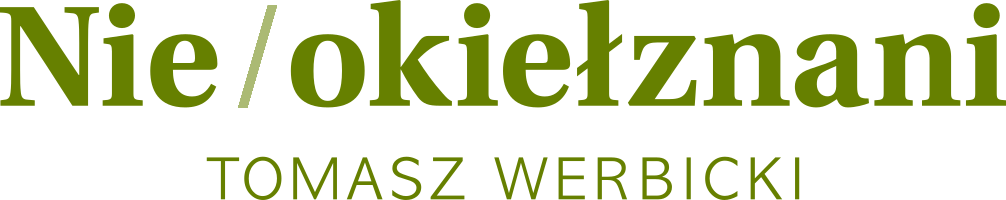
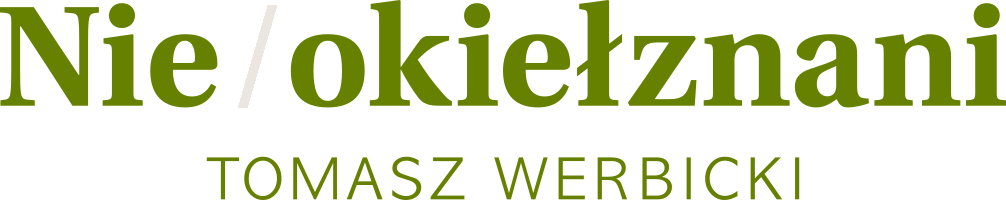
Finish Polish version

Changed region(s): [[0.2157, 0.03, 0.2773, 0.54]]

diff --git a/index.html b/index.html
@@ -24,8 +24,14 @@
                 </button>
                 <ul class="nav-menu">
                     <li><a href="#top">Start</a></li>
-                    <li><a href="#story">The Story</a></li>
-                    <li><a href="#contact">Connect</a></li>
+                    <li><a href="#contact">Porozmawiajmy</a></li>
+                    <li><span>/</span></li>
+                    <li><a href="https://www.youtube.com/@nieokielznani">
+                        <svg fill="currentColor" width="16" height="16" viewBox="0 0 24 24" xmlns="http://www.w3.org/2000/svg">
+                          <path d="M23,9.71a8.5,8.5,0,0,0-.91-4.13,2.92,2.92,0,0,0-1.72-1A78.36,78.36,0,0,0,12,4.27a78.45,78.45,0,0,0-8.34.3,2.87,2.87,0,0,0-1.46.74c-.9.83-1,2.25-1.1,3.45a48.29,48.29,0,0,0,0,6.48,9.55,9.55,0,0,0,.3,2,3.14,3.14,0,0,0,.71,1.36,2.86,2.86,0,0,0,1.49.78,45.18,45.18,0,0,0,6.5.33c3.5.05,6.57,0,10.2-.28a2.88,2.88,0,0,0,1.53-.78,2.49,2.49,0,0,0,.61-1,10.58,10.58,0,0,0,.52-3.4C23,13.69,23,10.31,23,9.71ZM9.74,14.85V8.66l5.92,3.11C14,12.69,11.81,13.73,9.74,14.85Z"/>
+                        </svg>
+                        Youtube
+                    </a></li>
                 </ul>
             </div>
         </div>
@@ -43,86 +49,88 @@
         <div class="container-narrow">
             
             <div class="story-block">
-                <p>Hello, I'm Tomasz. When I got Frotka, my first dog, I was super excited about raising her to be a great companion. I was ready for the work, for constantly wondering what I could do better for her. When I take on a challenge like that, new area to discover, I get obsessive.</p>
-                <p>And I went deep down the rabbit hole. All the videos, paid online courses, whole spectrum of techniques and approaches.</p>
-                <p>But then I was home with her, dealing with a real, living creature I took under my care, and it got me nowhere.</p>
+                <p>Hejo, na imię mam Tomasz. Kiedy z partnerką przygarnęliśmy Frotkę, mojego pierwszego psa, byłem super podekscytowany wychowaniem jej na wspaniałą towarzyszkę życia. Byłem totalnie gotowy na ogrom pracy i ciągłe zastanawianie się co jeszcze mogę zrobić lepiej. Kiedy podejmę się takiego zadania, kiedy mam nowy temat do zgłębienia, dostaję obsesji.</p>
+                <p>I wciągnąłem się po uszy. Setki godzin video, płatne kursy online, dziesiątki godzin podcastów i pełne spektrum podejść czy technik.</p>
+                <p>Jednak kiedy byłem z nią w domu, mając do czynienia z żywą istotą, którą wziąłem pod swoją opiekę, niewiele to wszystko dało.</p>
             </div>
 
             <div class="story-block">
-                <p>I had this picture of what we could be together. A real partnership, a dog I could do everything with. Meanwhile, all I could feel was the critical stages of her development passing by while I fumbled with techniques that felt increasingly hollow.</p>
-                <p>It wasn't that she was badly behaved. She wasn't lunging at people or destroying things. We just couldn't work together. She didn't want to play, she didn't want treats that much, at home she was restless and outside she was a deranged sniff-junkie with absolute zero contact. I couldn't reach her.</p>
-                <p>I couldn't find good guidance anywhere and I literally cried in desperation.</p>
+                <p>Miałem tę wizję psa, z którym mam szczerą, głęboką relację i mogę z nim podbijać świat. Wiedziałem, że nie przyjdzie to samo, że będzie to wymagać wzajemnej nauki. Jednak w rzeczywistości obserwowałem jak przemijają krytyczne okresy jej rozwoju w coraz mocniejszym uczuciu bezradności.</p>
+                <p>Nigdy nie zachowywała się źle i nie mieliśmy znaczących problemów. Nie niszczyła, nie zżerała losowych rzeczy, nie baliśmy się o jej bezpieczeństwo. Po prostu nie byliśmy w stanie razem pracować. Nie była zainteresowana jakąkolwiek interakcją z nami, nie biegała za smaczkami, nie chwytała szarpaka, na dworze nie odciągała nosa od ziemi, aż do przestymulowania, a w domu nie mogła się uspokoić czy porządnie wyspać.</p>
+                <p>Nie mogliśmy złapać żadnego kontaktu. Jako 2 miesięczny szczeniak była za wszystkim sama, a ja płakałem z desperacji.</p>
             </div>
 
             <div class="story-divider">• • •</div>
 
             <div class="story-block">
-                <p>Puppy classes program didn't include much more than luring into a sit and when someone asked about biting clothes, all we got was a 10 minute non-answer.</p>
-                <p>Then I paid for a behavioral consultation… and was simply appalled.</p>
-                <p>We also went to a dog sport introductory camp looking for a pleasant vacation around dog people. But what I saw was again, appaling.</p>
+              <p>Program psiego przedszkola nie zawierał więcej niż "siad na smaczek", a gdy ktoś zapytał o problem z gryzieniem otrzymaliśmy 10 minutowy monolog bez żadnej odpowiedzi.</p>
+              <p>Zapłaciliśmy za konsultację behawiorystki, która wykazała zero empatii wobec Frotki, a gdy pojawiliśmy się na prowadzonym przez nią spacerze socjalizacyjnym, jej pies sprawiał najwięcej problemów.</p>
+              <p>Wybraliśmy się także na obóz wprowadzający do sportów, licząc na luźne wakacje w towarzystwie psiarzy. Czego byliśmy świadkami zostawiło ogromny niesmak.</p>
                 <ul>
-                  <li>Dogs not allowed to see each other and forced to wait in cars or empty rooms.</li>
-                  <li>Everyone dealing with behavioral problems instead of having fun with a frisbee.</li>
-                  <li>Dogs visibly trying to run for their lives while being pulled on a leash over a bar.</li>
-                  <li>And owners literally crying under the trainer's guideance.</li>
+                  <li>Pociechy pozamykane w pustych pokojach, gdyż nie mogły się swobodnie minąć na placu.</li>
+                  <li>Zdecydowanie więcej czasu poświęcanego na problemy behawioralne niż zabawę frisbee.</li>
+                  <li>Psy z podkulonym ogonem i strachem w oczach siłą przeciągane nad tyczką.</li>
+                  <li>I właściciele dosłownie w szczerym płaczu pod przewodnictwem trenera.</li>
                 </ul>
-                <p>And then there's Facebook – #evilflexi! #podbiegacz! #agresor! – what the actual fuck?</p>
-                <p>Wherever I looked, no real answers. Just this growing sense that something is deeply off with the dog world I was witnessing. </p>
+                <p>No i ten Facebook — Wyrzucać Flexi! Podbiegacz, agresor! On zabije Ci psa! — <strong>Co do *****?!</strong></p>
+                <p>Gdzie nie szukałem, brak prawdziwych odpowiedzi. Tylko narastające uczucie, że coś jest solidnie nie halo z tym psim światem jaki zastałem.</p>
             </div>
 
             <div class="story-block">
-                <p class="story-highlight">No common sense, no human decency, not even empathy for what matters the most - <strong>the dogs</strong>.</p>
-            </div>
-
-            <div class="story-divider">• • •</div>
-
-            <div class="story-block">
-              <h3>Maybe you've noticed this too</h3>
-              <p>The people with the biggest followings aren't always the ones with the deepest knowledge. The trainers with views are often very good at social media, which isn't the same as being exceptional at dogs.</p>
-              <p>At the same time, people recommend trainers on Facebook because they like them as a person, because it's a nice atmosphere on the shared walks. Circles of mutual adoration are built, while the impact on the dogs takes the second place.</p>
-              <p>Let's face it, most people have little idea of what they're doing. That's true in every field, every industry. Most people know enough to sound like they know what they're talking about. Far fewer actually do.</p>
-            </div>
-            <div class="story-block">
-              <p>Why is that dog training seems to be the only industry where so called professionals can say "I rehabilitated thousands of dogs" and have nothing to show for it?</p>
-              <p>Why is it ok for trainers to proclaim what's evil and what is the ultimate path to happiness and give zero actual proof? Why in so crucial matter the bar is so embarassingly low?</p>
-              <p>Usually the stakes are low but here we're talking dogs. At best, the wrong information makes a pet dog a little bit annoying to live with. At worst, it gets them routinely killed at shelters.</p>
-              <p>So when the common popular knowledge doesn't sit right with you, if you followed or even paid for advice and you still don't understand how it's supposed to bring you closer to sharing adventures with your dog, I get it. I've been there, I got mad, and it's ok to be mad.</p>
+                <p class="story-highlight">Brak rozsądku, ludzkiej przyzwoitości. Brak nawet tego co tu najważniejsze — <strong>empatii do psów</strong>.</p>
             </div>
 
             <div class="story-divider">• • •</div>
 
             <div class="story-block">
-              <p>Then I found the right people, that share and promote the vision of how I would like to live with my dogs.</p>
-              <p>How to enable them to explore courageously, play hard, have meaningful relationships, overcome challenges but also feel content and safe. All that while actually being safe, and not being a nuisance to anybody.</p>
-              <p class="story-highlight">It's about understanding the living creature you've committed to, what they need to feel secure, how to give them structure without crushing their spirit and how to let them be a dog while also existing peacefully in your world.</p>
-              <p>Dogs are highly intelligent, social, and emotionally aware, they've been pretty much designed that way and they deserve appropriate respect. Moreover, they are highly resilient and some of those already condemned to die are being rehabilitated every day.</p>
-              <p>It's on us to make them feel like somebody and you can't do that by confinement, whether it's on a leash or via obedience, and shoving food into their faces while they want nothing to do with you or given situation.</p>
-              <p>Whether it's teaching a naive puppy how to live or helping an adult dog overcome years of trauma, we need to prepare them and lead, not away, but through the challenges they need to face.</p>
-              <p>It's not some undiscoverable dark art. It's just an unwavering empathy, solid mindset and couple of principles informing thousand small decisions.
+              <h3>Może też zauważyłes/aś...</h3>
+              <p>Ludzie z największym zasięgiem to nie zawsze Ci z największą wiedzą i doświadczeniem. Trenerzy z odsłonami są bardzo dobrzy w sociale, co nie znaczy wyjątkowo doświadczeni z psami.</p>
+              <p>Tak samo, ludzie polecają trenerów, których lubią jako osobę, bo tworzą miłą atmosferę na spacerach socjalizacyjnych. Tworzą się kółka adoracji a psy schodzą na drugi plan.</p>
+              <p>Przyznajmy to szczerze — większość ludzi ma blade pojęcie o tym, co robi. Taka jest prawda, niezależnie od branży czy specjalności. Większość wie tyle, by brzmieć przekonująco. Często na tym się kończy.</p>
+            </div>
+            <div class="story-block">
+              <p>Jak to jest, że nasze środowisko zdaje się być jedynym, w którym ok jest powiedzieć "trenowałem setki psów" i mieć przy tym nic do pokazania? Dlaczego pozwalamy ogłaszać co pochodzi z piekła rodem, a co jest jedyną ścieżką do niebiańskiego szczęścia nie przedstawiając przy tym żadnego dowodu?</p>
+              <p>Dlaczego w tak ważnej kwestii standardy są żałośnie niskie? W najlepszym wypadku błędne informacje skutkują psem, który jest upierdliwy dla właściciela. W najgorszym — regularnie w schroniskach skazują dobre psy na śmierć.</p>
+              <p>Więc jeśli Tobie też coś zgrzyta w tym świecie, jeśli pod dyktando trenerów robisz rzeczy nie mając pojęcia jak mają zbliżyć Cię do prawdziwych przygód z Twoim podopiecznym, rozumiem. Byłem tam i wyszedłem… poirytowany.</p>
+            </div>
+
+            <div class="story-divider">• • •</div>
+
+            <div class="story-block">
+              <p>Wtedy w końcu trafiłem na odpowiednich ludzi. Takich, którzy dzielą i promują wizję tego jak ja chciałbym żyć z moimi psami.</p>
+              <p>Jak umożliwić im nieskrępowane eksploracje, dziką zabawę, tworzenie głębokich więzi i stawianie czoła wyzwaniom — w poczuciu spełnienia i bezpieczeństwa. To wszystko nie będąc dla nikogo żywym utrapieniem.</p>
+              <p class="story-highlight">Chodzi o zrozumienie istoty, za którą wzięliśmy odpowiedzialność. Czego potrzebuje, by czuć się bezpiecznie. Jak stawiać granice bez łamania charakteru. I jak psu pozwolić być psem — jednocześnie żyjąc z nim w zgodzie.</p>
+              <p>Psy są bardzo inteligentne, społeczne i zadziwiająco świadome emocjonalnie, takimi je stworzyliśmy i zasługują na to, by im tego nie odbierać. Ponadto, są niezwykle silne duchem i niektóre z tych przez ludzi pozbawionych już nadziei, rehabilitowane są każdego dnia.</p>
+              <p>Nasza rola w tym, by psy czuły się kimś, a nie da się tego załatwić ograniczaniem wolności — smyczą czy posłuszeństwem — i pchając im żarcie w twarz, gdy nie chcą mieć z nami oraz daną sytuacją nic do czynienia.</p>
+              <p>Niezależnie od tego czy mówimy o nauce życia młodego szczeniaczka czy pomocy dorosłemu psu w przepracowaniu lat traumy, musimy je przygotować i poprowadzić przez, a nie odprowadzać od wyzwań, które przed nimi stoją.</p>
+              <p>To nie jakaś nieodkrywalna czarna magia. Wystarczy niezachwiana empatia, odpowiedni mindset i parę zasad, które stoją za setkami małych decyzji.</p>
             </div>
 
 
             <div class="story-divider">• • •</div>
 
             <div class="story-block">
-              <h3>Who am I in all of that?</h3>
-              <p>Definitely not a professional trainer. No certifications, no credentials.</p>
-              <p>I've got my dog and dogs of my friends I work with whenever they'll let me. Me and my partner also dog-sit for strangers, and I jump at every other similar opportunity because every dog teaches me something different.</p>
-              <p>I follow people that are far beyond struggling for business, yet spend the time to present the real work it takes to train and rehabilitate dogs. Those who are highly decorated in dog sports, and also, through their work, move dogs away from euthanasia into happy families. They show what it takes and don't sanitize their thoughts, being worried about internet backlash.</p>
-              <p>That inspired me to do the same. Document as much of my time with dogs as possible, as well as my thouhts, insights and concerns. For me, to have a chance to observe things I miss in the moment and avoid stagnation. But also for others that are open to receive any information or motivation they can get.</p>
-              <p>I throw it all on YouTube - no script, no editing, no agenda. Just raw footage of what's actually happening. The good sessions and the ones where nothing works.</p>
-              <p>At the same time, I have a completely separate career that pays well. Which means I'm not here to promote my business or sell you a training package.</p>
+              <h3>Kim ja w tym wszystkim jestem?</h3>
+              <p>Zdecydowanie nie "profesjonalnym" trenerem. Żadnych certyfikatów czy kwalifikacji.</p>
+              <p>Mam swojego psa i psy przyjaciół, z którymi pracuję, gdy tylko mi na to pozwolą. Z partnerką opiekujemy się też psami obcych ludzi i chwytam się każdej podobnej okazji, gdyż każdy pies uczy mnie czegoś innego.</p>
+              <p>Śledzę ludzi, którzy już dawno nie muszą walczyć o klientów, a mimo to poświęcają czas, by pokazać prawdziwą pracę, jaką wymaga szkolenie i rehabilitacja psów. Tych wysoko odznaczonych w sportach kynologicznych, którzy jednocześnie poprzez swoją pracę ratują psy od uśpienia i dają im szczęśliwe domy. Tych, którzy nie chowają swoich myśli, oraz doświadczenia w obawie o internetowy hejt.</p>
+              <p>To zainspirowało mnie do tego samego. Dokumentowania jak największej części czasu spędzanego z psami, a także moich przemyśleń, spostrzeżeń i obaw. Dla siebie, by mieć szansę zauważyć to, co umyka mi w danej chwili i uniknąć stagnacji. Ale też dla innych, którzy są otwarci na każdą informację czy motywację, którą napotkają.</p>
+              <p><a href="https://www.youtube.com/@nieokielznani">Wrzucam wszystko na Youtube</a> — bez skryptu, edycji i ukrytych celów. Bezpośredni zapis tego co dzieje się naprawdę. Momenty, gdy wszystko idzie perfekcyjnie, te w których wszystko się sypie, jak i te, które mogą budzić wiele kontrowersji.</p>
+              <p>Według mnie w psim świecie nie ma miejsca na gołosłowne spory o podejścia, techniki i narzędzia bez pokazania jak są używane — i co najważniejsze — jakie dają realne rezultaty.</p>
+              <p>Żaden klient nie powinien też dać się prowadzić nikomu, online czy osobiście, kto nie da mu poczucia prawdziwego zrozumienia procesów, które stoją za jego zaleceniami, jak i oczekiwanego wpływu na stan emocjonalny psa. Rolą trenera powinno być jak najszybsze usamodzielnienie opiekuna w podejmowaniu własnych decyzji.</p>
+              <p>Stąd uważam, że każdy trener czy behawiorysta powinien być jak otwarta księga. Nie pisać prozy na Facebooku, nie omawiać cudzych klipów, lecz pokazywać własną pracę i oraz swoich podopiecznych.</p>
+              <p class="story-highlight">Ostatecznie liczy się tylko jedno — psy. Jeśli szczerze przyjrzysz się im bez własnych uprzedzeń, zobaczysz, że one nigdy nie udają, nie grają roli, nigdy nie kłamią.</p>
             </div>
 
             <div class="story-block">
-              <h3>Here's what I'm actually offering</h3>
-              <p>Conversation. Support. Advice if it helps. Joint training sessions if you're nearby.</p>
-              <p>All free. But not to everyone.</p>
-              <p>If you just want someone to tell you three steps to stop your dog from barking so you can get back to ignoring them, this isn't for you. There are plenty of trainers who'll take your money for that.</p>
-              <p>But if you're curious about what's actually happening with your dog, if you want to understand rather than just apply a quick fix, we should talk.</p>
-              <p>Why? Honestly, this is how I get better and while it's still a very distant future, at some point I want to retire from current software engineering career.</p>
-              <p>However, it's not just that. I love talking dogs with people who actually care about their relationship with their animal. Sharing some knowledge, geeking out over training approaches and seeing someone suddenly <em>get</em> what their dog has been trying to tell them is genuinely rewarding and definitely a great way to spend time.</p>
-              <p>For now, I'd rather be a part of a club than have business or a following.</p>
+              <h3>To co oferuję?</h3>
+              <p>Poza nagraniami, których mi najbardziej brakowało jako punkt odniesienia, gdy zaczynałem swoją przygodę z psami, rozmowę, wsparcie, poradę jeśli pomoże. Wspólne treningi jeśli jesteście niedaleko.</p>
+              <p>Sam nie mam długiej listy udokumentowanych sukcesów, więc nie miałbym czelności oczekiwać za to pieniędzy. Nie szkodzi, mam już dobre źródło dochodu.</p>
+              <p>Jednak nie dla każdego. Jeśli oczekujesz 3 kroków jak powstrzymać psa od szczekania, by móc go dalej ignorować — jest wielu trenerów, którzy wezmą za to Twoje pieniądze.</p>
+              <p>Jeśli jednak jesteś szczerze ciekawy/a swojego psa, chcesz się z nim wzajemnie rozwijać, tarzać się z nim żywo po podłodze i razem oglądać górskie krajobrazy na szlaku, powinniśmy porozmawiać.</p>
+              <p>Dlaczego? Szczerze, tylko tak mogę być w tym coraz lepszym i o ile na ten moment jest to daleka przyszłość, chciałbym kiedyś zakończyć moją karierę programisty.</p>
+              <p>Jednak, jest w tym coś więcej. Uwielbiam rozmawiać o psach, z ludźmi, których szczerze obchodzą ich pupile. Dzielić się wiedzą, bredzić bez końca o podejściu do trenowania i być świadkiem jak ktoś nagle załapuje co ich zwierzak próbował już im dawno powiedzieć. Jest to niesamowicie satysfakcjonujące i jednocześnie nienajgłupszy sposób na spędzenie wolnego czasu.</p>
+              <p>Na ten moment, wolę należeć do klubu niż mieć biznes czy zbierać wyznawców.</p>
             </div>
         </div>
     </section>
@@ -130,9 +138,9 @@
     <!-- Contact Section -->
     <section id="contact" class="contact">
         <div class="container">
-            <h2 class="section-title">Let's talk</h2>
+            <h2 class="section-title">Porozmawiajmy</h2>
             <div class="contact-intro">
-                <p>Whether you're dealing with a specific challenge or you just want to understand dogs on a much deeper level — reach out.</p>
+                <p>Naprawdę, śmiało. Nikt z nas nie powinien być w tym sam.</p>
                 <p style="font-size:1.3rem;margin-top:2rem;">
                     <strong>Email:</strong> <a href="mailto:kontakt@nieokielznani.pl" style="color:var(--accent-green);text-decoration:underline;">kontakt@nieokielznani.pl</a>
                 </p>

diff --git a/index.en.html b/index.en.html
@@ -1,0 +1,152 @@
+<!DOCTYPE html>
+<html lang="en">
+<head>
+    <meta charset="UTF-8">
+    <meta name="viewport" content="width=device-width, initial-scale=1.0">
+    <meta name="description" content="Moja historia i miejsce w świecie psów.">
+    <title>Nieokiełznani - Wychowanie psów</title>
+    <link rel="stylesheet" href="styles.css">
+</head>
+<body id="top">
+    <!-- Navigation -->
+    <nav class="navbar">
+        <div class="container">
+            <div class="nav-wrapper">
+                <div class="logo">
+                    <a href="#top">
+                        <img src="nieokielznani.png" alt="Nieokiełznani - Tomasz Werbicki" class="logo-image">
+                    </a>
+                </div>
+                <button class="mobile-menu-toggle" aria-label="Toggle menu">
+                    <span></span>
+                    <span></span>
+                    <span></span>
+                </button>
+                <ul class="nav-menu">
+                    <li><a href="#top">Start</a></li>
+                    <li><a href="#story">The Story</a></li>
+                    <li><a href="#contact">Connect</a></li>
+                </ul>
+            </div>
+        </div>
+    </nav>
+
+    <!-- Hero Section -->
+    <section id="home" class="hero">
+        <div class="hero-image">
+            <img src="hero-frotka.jpg" alt="Frotka">
+        </div>
+    </section>
+
+    <!-- Story Section -->
+    <section id="story" class="story-narrative">
+        <div class="container-narrow">
+            
+            <div class="story-block">
+                <p>Hello, I'm Tomasz. When I got Frotka, my first dog, I was super excited about raising her to be a great companion. I was ready for the work, for constantly wondering what I could do better for her. When I take on a challenge like that, new area to discover, I get obsessive.</p>
+                <p>And I went deep down the rabbit hole. All the videos, paid online courses, whole spectrum of techniques and approaches.</p>
+                <p>But then I was home with her, dealing with a real, living creature I took under my care, and it got me nowhere.</p>
+            </div>
+
+            <div class="story-block">
+                <p>I had this picture of what we could be together. A real partnership, a dog I could do everything with. Meanwhile, all I could feel was the critical stages of her development passing by while I fumbled with techniques that felt increasingly hollow.</p>
+                <p>It wasn't that she was badly behaved. She wasn't lunging at people or destroying things. We just couldn't work together. She didn't want to play, she didn't want treats that much, at home she was restless and outside she was a deranged sniff-junkie with absolute zero contact. I couldn't reach her.</p>
+                <p>I couldn't find good guidance anywhere and I literally cried in desperation.</p>
+            </div>
+
+            <div class="story-divider">• • •</div>
+
+            <div class="story-block">
+                <p>Puppy classes program didn't include much more than luring into a sit and when someone asked about biting clothes, all we got was a 10 minute non-answer.</p>
+                <p>Then I paid for a behavioral consultation… and was simply appalled.</p>
+                <p>We also went to a dog sport introductory camp looking for a pleasant vacation around dog people. But what I saw was again, appaling.</p>
+                <ul>
+                  <li>Dogs not allowed to see each other and forced to wait in cars or empty rooms.</li>
+                  <li>Everyone dealing with behavioral problems instead of having fun with a frisbee.</li>
+                  <li>Dogs visibly trying to run for their lives while being pulled on a leash over a bar.</li>
+                  <li>And owners literally crying under the trainer's guideance.</li>
+                </ul>
+                <p>And then there's Facebook – #evilflexi! #podbiegacz! #agresor! – what the actual fuck?</p>
+                <p>Wherever I looked, no real answers. Just this growing sense that something is deeply off with the dog world I was witnessing. </p>
+            </div>
+
+            <div class="story-block">
+                <p class="story-highlight">No common sense, no human decency, not even empathy for what matters the most - <strong>the dogs</strong>.</p>
+            </div>
+
+            <div class="story-divider">• • •</div>
+
+            <div class="story-block">
+              <h3>Maybe you've noticed this too</h3>
+              <p>The people with the biggest followings aren't always the ones with the deepest knowledge. The trainers with views are often very good at social media, which isn't the same as being exceptional at dogs.</p>
+              <p>At the same time, people recommend trainers on Facebook because they like them as a person, because it's a nice atmosphere on the shared walks. Circles of mutual adoration are built, while the impact on the dogs takes the second place.</p>
+              <p>Let's face it, most people have little idea of what they're doing. That's true in every field, every industry. Most people know enough to sound like they know what they're talking about. Far fewer actually do.</p>
+            </div>
+            <div class="story-block">
+              <p>Why is that dog training seems to be the only industry where so called professionals can say "I rehabilitated thousands of dogs" and have nothing to show for it?</p>
+              <p>Why is it ok for trainers to proclaim what's evil and what is the ultimate path to happiness and give zero actual proof? Why in so crucial matter the bar is so embarassingly low?</p>
+              <p>Usually the stakes are low but here we're talking dogs. At best, the wrong information makes a pet dog a little bit annoying to live with. At worst, it gets them routinely killed at shelters.</p>
+              <p>So when the common popular knowledge doesn't sit right with you, if you followed or even paid for advice and you still don't understand how it's supposed to bring you closer to sharing adventures with your dog, I get it. I've been there, I got mad, and it's ok to be mad.</p>
+            </div>
+
+            <div class="story-divider">• • •</div>
+
+            <div class="story-block">
+              <p>Then I found the right people, that share and promote the vision of how I would like to live with my dogs.</p>
+              <p>How to enable them to explore courageously, play hard, have meaningful relationships, overcome challenges but also feel content and safe. All that while actually being safe, and not being a nuisance to anybody.</p>
+              <p class="story-highlight">It's about understanding the living creature you've committed to, what they need to feel secure, how to give them structure without crushing their spirit and how to let them be a dog while also existing peacefully in your world.</p>
+              <p>Dogs are highly intelligent, social, and emotionally aware, they've been pretty much designed that way and they deserve appropriate respect. Moreover, they are highly resilient and some of those already condemned to die are being rehabilitated every day.</p>
+              <p>It's on us to make them feel like somebody and you can't do that by confinement, whether it's on a leash or via obedience, and shoving food into their faces while they want nothing to do with you or given situation.</p>
+              <p>Whether it's teaching a naive puppy how to live or helping an adult dog overcome years of trauma, we need to prepare them and lead, not away, but through the challenges they need to face.</p>
+              <p>It's not some undiscoverable dark art. It's just an unwavering empathy, solid mindset and couple of principles informing thousand small decisions.
+            </div>
+
+
+            <div class="story-divider">• • •</div>
+
+            <div class="story-block">
+              <h3>Who am I in all of that?</h3>
+              <p>Definitely not a professional trainer. No certifications, no credentials.</p>
+              <p>I've got my dog and dogs of my friends I work with whenever they'll let me. Me and my partner also dog-sit for strangers, and I jump at every other similar opportunity because every dog teaches me something different.</p>
+              <p>I follow people that are far beyond struggling for business, yet spend the time to present the real work it takes to train and rehabilitate dogs. Those who are highly decorated in dog sports, and also, through their work, move dogs away from euthanasia into happy families. They show what it takes and don't sanitize their thoughts, being worried about internet backlash.</p>
+              <p>That inspired me to do the same. Document as much of my time with dogs as possible, as well as my thouhts, insights and concerns. For me, to have a chance to observe things I miss in the moment and avoid stagnation. But also for others that are open to receive any information or motivation they can get.</p>
+              <p>I throw it all on YouTube - no script, no editing, no agenda. Just raw footage of what's actually happening. The good sessions and the ones where nothing works.</p>
+              <p>There should be no place in dog training for unsubstantied arguments about approaches, techniques and tools without showing how they are being used, and most importantly, what are the authentic results.</p>
+              <p>And no client should accept any advice from someone, whether online or in-person, until they are able to explain the process behind it, how it's supposed to affect the dog's mental state, and can provide actual proof it worked for them in the past.</p>
+              <p class="story-highlight">In the end, dogs are the only thing that matters. When you really pay attention — they never pretend, they never perform, they never lie.</p>
+            </div>
+
+            <div class="story-block">
+              <h3>Here's what I'm actually offering</h3>
+              <p>Conversation. Support. Advice if it helps. Joint training sessions if you're nearby.</p>
+              <p>All free. But not to everyone.</p>
+              <p>If you just want someone to tell you three steps to stop your dog from barking so you can get back to ignoring them, this isn't for you. There are plenty of trainers who'll take your money for that.</p>
+              <p>But if you're curious about what's actually happening with your dog, if you want to understand rather than just apply a quick fix, we should talk.</p>
+              <p>Why? Honestly, this is how I get better and while it's still a very distant future, at some point I want to retire from current software engineering career.</p>
+              <p>However, it's not just that. I love talking dogs with people who actually care about their relationship with their animal. Sharing some knowledge, geeking out over training approaches and seeing someone suddenly <em>get</em> what their dog has been trying to tell them is genuinely rewarding and definitely a great way to spend time.</p>
+              <p>For now, I'd rather be a part of a club than have business or a following.</p>
+            </div>
+        </div>
+    </section>
+
+    <!-- Contact Section -->
+    <section id="contact" class="contact">
+        <div class="container">
+            <h2 class="section-title">Let's talk</h2>
+            <div class="contact-intro">
+                <p>Whether you're dealing with a specific challenge or you just want to understand dogs on a much deeper level — reach out.</p>
+                <p style="font-size:1.3rem;margin-top:2rem;">
+                    <strong>Email:</strong> <a href="mailto:kontakt@nieokielznani.pl" style="color:var(--accent-green);text-decoration:underline;">kontakt@nieokielznani.pl</a>
+                </p>
+            </div>
+        </div>
+    </section>
+
+    <!-- Footer -->
+    <footer class="footer">
+        <!-- Simple brown bar, no content -->
+    </footer>
+
+    <script src="script.js"></script>
+</body>
+</html>

diff --git a/styles.css b/styles.css
@@ -87,7 +87,7 @@ body {
     gap: 0.5rem;
 }
 
-.nav-menu a {
+.nav-menu a, .nav-menu span {
     text-decoration: none;
     color: var(--text-color);
     font-weight: 400;
@@ -100,9 +100,19 @@ body {
     touch-action: manipulation;
 }
 
+.nav-menu span {
+    color: var(--beige);
+}
+
 .nav-menu a:hover {
     color: var(--accent-green);
     background: var(--light-color);
+}
+
+.nav-menu a[href*="youtube"] svg {
+    vertical-align: middle;
+    position: relative;
+    top: -0.1em;
 }
 
 .mobile-menu-toggle {
@@ -256,6 +266,31 @@ section {
 
 .story-block {
     margin-bottom: 3rem;
+}
+
+.story-block a {
+    color: #668000;
+    text-decoration: underline;
+    text-decoration-color: rgba(102, 128, 0, 0.4);
+    text-underline-offset: 3px;
+    transition: color 0.2s ease, text-decoration-color 0.2s ease;
+}
+
+.story-block a:hover {
+    color: #4d6000;
+    text-decoration-color: #4d6000;
+}
+
+.story-block a:visited {
+    color: #8b7355;
+}
+
+.story-block a:visited:hover {
+    color: #6b5d4f;
+}
+
+.story-block a:active {
+    color: #3a4800;
 }
 
 .story-block h3 {
